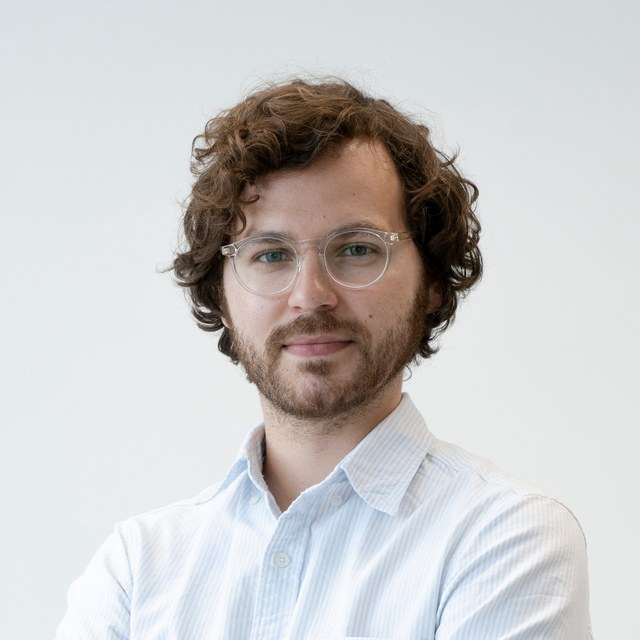
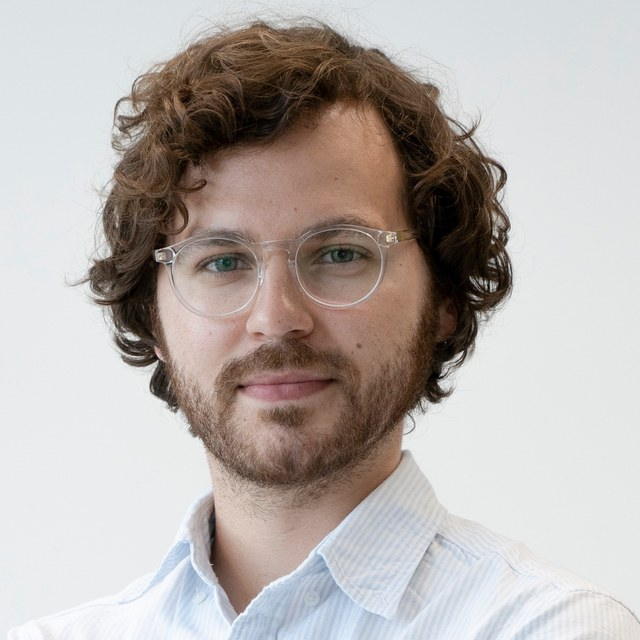
Serif throughout; recrop and dark-mode treatment for the portrait
Mixing serif headings with a sans subtitle left the hero's three lines
optically misaligned despite sharing a left edge. One typeface fixes it.

The portrait was shot on a near-white ground and glared on a dark page.
Recropped tighter so there is less of it, and dimmed slightly in dark
mode.

diff --git a/styles.scss b/styles.scss
@@ -14,7 +14,7 @@ $body-color: $ink !default;
 $link-color: $accent !default;
 $border-color: $rule !default;
 
-$font-family-sans-serif: "Inter", -apple-system, BlinkMacSystemFont, "Segoe UI", Helvetica, Arial, sans-serif;
+$font-family-sans-serif: "Source Serif 4", Georgia, "Times New Roman", serif;
 $font-family-serif: "Source Serif 4", Georgia, "Times New Roman", serif;
 $font-size-root: 17px;
 $line-height-base: 1.65;

diff --git a/dark.scss b/dark.scss
@@ -29,4 +29,9 @@ $navbar-hl: $accent;
 
 .award { background: rgba(217, 138, 138, .12); }
 
-.hero-photo img { filter: grayscale(12%) brightness(.92); }
+// The portrait was shot on a near-white ground, so on a dark page it reads as a
+// glowing block. Dim it and let the border do the framing.
+.hero-photo img {
+  filter: grayscale(12%) brightness(.84) contrast(1.03);
+  border-color: #33363c;
+}
